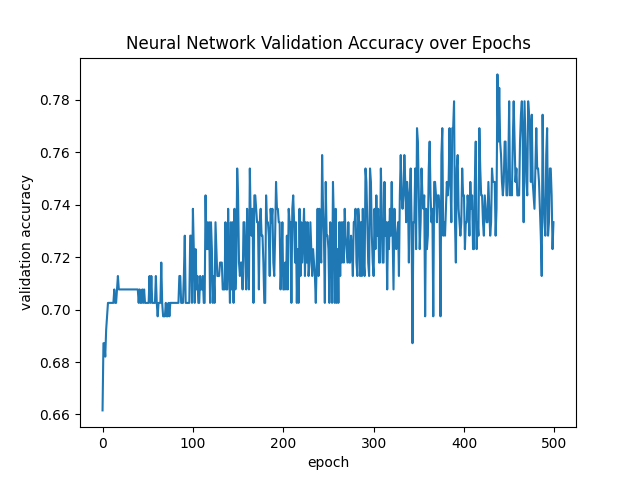
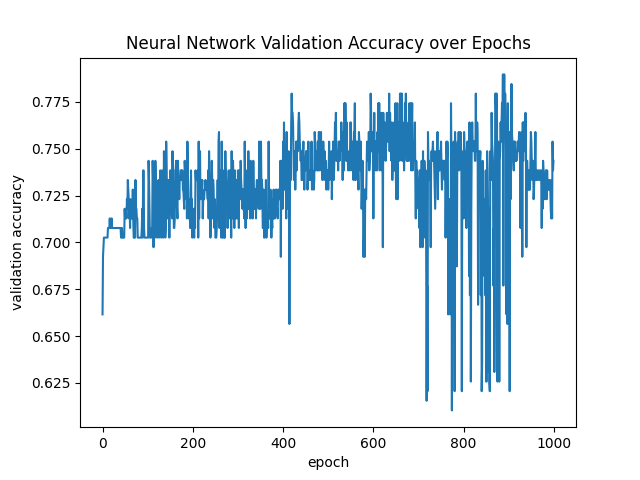
add hyper param tuning for logistic regression

diff --git a/neural_net.py b/neural_net.py
@@ -2,13 +2,13 @@ from platform import node
 from utils import *
 import numpy as np
 import matplotlib.pyplot as plt
+from sklearn.metrics import accuracy_score
 
 def sigmoid(z):
     return 1 / (1 + np.exp(-z))
 
 def relu(z):
-    z[z<0] = 0
-    return z
+    return np.maximum(0, z)
 
 # Derivative of ReLU function
 def step(z):
@@ -34,14 +34,11 @@ def forward_prop(X, weights):
     # X: M x Nx
     M = X.shape[0]
     z1 = np.dot(X, weights["W1"].T) + np.tile(weights["B1"].T, (M, 1))
+    # y1 = sigmoid(z1)
     y1 = relu(z1)
-    # print("z1 shape: ", z1.shape)
-    # print("y1 shape: ", y1.shape)
 
     z2 = np.dot(y1, weights["W2"].T) + np.tile(weights["B2"].T, (M, 1))
     y2 = sigmoid(z2)
-    # print("z2 shape: ", z2.shape)
-    # print("y2 shape: ", y2.shape)
 
     node_output = {
         "Z1" : z1,
@@ -61,14 +58,10 @@ def back_prop(W, X, t, node_output):
     y1 = node_output["Y1"]
     y2 = node_output["Y2"]
     w2 = W["W2"]
-    # print("y2 shape: ", y2.shape)
-    # print("t shape: ", t.shape)
 
     dz2 = y2 - t
     dw2 = 1/M * np.dot(dz2.T, y1)
     db2 = 1/M * np.sum(dz2)
-    # print("dz2 shape: ", dz2.shape)
-    # print("w2 shape: ", w2.shape)
 
     # dz1 = np.dot(dz2, w2) * (y1 * (1 - y1))
     dz1 = np.dot(dz2, w2) * step(z1)
@@ -88,11 +81,7 @@ def update_weights(W, grads, alpha):
     b1_new = W["B1"] - alpha * grads["db1"]
     w2_new = W["W2"] - alpha * grads["dw2"]
     b2_new = W["B2"] - alpha * grads["db2"]
-    # print("w1_new shape: ", w1_new.shape)
-    # print("b1_new shape: ", b1_new.shape)
-    # print("w2_new shape: ", w2_new.shape)
-    # print("b2_new shape: ", b2_new.shape)
-
+    
     weights_new = {
         "W1": w1_new,
         "B1": b1_new,
@@ -106,9 +95,13 @@ def predict(X, W):
     threshold = 0.5
     return node_output["Y2"] > threshold
 
-def train(X_train, t_train, X_val, t_val, nn_dims, alpha):
+def train(X_train, t_train, X_val, t_val, nn_dims, params):
     train_losses = []
     valid_accs = []
+
+    batch_size = params['batch_size']
+    epochs = params['epochs']
+    alpha = params['alpha']
 
     W = init_weights(nn_dims["n_x"], nn_dims["n_h"], nn_dims["n_y"])
 
@@ -117,7 +110,7 @@ def train(X_train, t_train, X_val, t_val, nn_dims, alpha):
     epoch_best = 0
 
     num_batches = int(np.ceil(len(X_train)/batch_size))  
-    for epoch in range(MaxEpoch):
+    for epoch in range(epochs):
 
         loss_this_epoch = 0
         for batch in range(num_batches):
@@ -125,22 +118,18 @@ def train(X_train, t_train, X_val, t_val, nn_dims, alpha):
             t_batch = t_train[batch*batch_size: (batch+1)*batch_size]
 
             node_output = forward_prop(X_batch, W)
-            # print("done forward prop")
 
             loss = get_cross_entropy_loss(node_output["Y2"], t_batch)
             loss_this_epoch += loss
 
             grads = back_prop(W, X_batch, t_batch, node_output)
-            # print("done back prop")
 
             W = update_weights(W, grads, alpha)
 
-        print("loss this epoch: ", loss)
 
         # Perform validation on the validation set by accuracy
         t_hat = predict(X_val, W)
-        acc = get_accuracy(t_val, t_hat)
-        print("epoch val acc: ", acc)
+        acc = accuracy_score(t_val, t_hat)
 
         # Append training loss and accuracy for the epoch
         train_losses.append(loss_this_epoch/num_batches)
@@ -153,33 +142,82 @@ def train(X_train, t_train, X_val, t_val, nn_dims, alpha):
     
     return epoch_best, acc_best,  w_best, train_losses, valid_accs
 
+def tune_params(X_train, t_train, X_val, t_val):
+    acc_best = 0
+    alpha_best = None
+    batch_size_best = None
+    n_h_best = None
+
+    alphas = [0.9, 0.1, 0.01, 0.001, 0.0001]
+    batch_sizes = [200, 100, 50, 10]
+    n_hs = [4, 8, 16, 32, 64]
+
+    num_iterations = 10
+    for alpha in alphas:
+        for batch_size in batch_sizes:
+            for n_h in n_hs:
+                summed_acc = 0
+                for i in range(num_iterations):
+                    nn_dims = {
+                        "n_x": X_train.shape[1],
+                        "n_h": n_h,
+                        "n_y": 1,
+                    }
+                    params = {
+                        'batch_size': batch_size,
+                        'epochs': num_iterations,
+                        'alpha': alpha,
+                    }
+                    _, acc, _, _, _ = train(X_train, t_train, X_val, t_val, nn_dims, params)
+                    summed_acc += acc
+
+                avg_acc = summed_acc/num_iterations
+                print(f'alpha: {alpha}, batch: {batch_size}, n_h: {n_h}, avg_acc: {avg_acc}')
+
+                if avg_acc > acc_best:
+                    acc_best = avg_acc
+                    alpha_best = alpha
+                    batch_size_best = batch_size
+                    n_h_best = n_h
+
+    tuned_params = {
+        'batch_size': batch_size_best,
+        'n_h': n_h_best,
+        'alpha': alpha_best,
+    }
+    return acc_best, tuned_params
 
 ##############################
 # Main code starts here
 
-# Single hidden layer with n_h nodes
-n_h = 32
-
-alpha = 0.1     # learning rate
-batch_size = 100    # batch size
-MaxEpoch = 500      # Maximum epoch - default 50
-decay = 0.          # weight decay
-
-# logistic regression classifier
 X_train, t_train, X_val, t_val, X_test, t_test = get_data()
+
+# Tune hyperparameters
+acc, params = tune_params(X_train, t_train, X_val, t_val)
+n_h = params['n_h']
+alpha = params['alpha']
+batch_size = params['batch_size'] 
+print(f'TUNED: alpha: {alpha}, batch: {batch_size}, n_h: {n_h}, acc: {acc}')
+
+# Train using tuned hyperparams and more Epochs
+MaxEpoch = 1000      # Maximum epoch
 
 nn_dims = {
     "n_x": X_train.shape[1],
     "n_h": n_h,
     "n_y": 1,
 }
-
-epoch_best, acc_best, w_best, train_losses, valid_accs = train(X_train, t_train, X_val, t_val, nn_dims, alpha)
+params = {
+    'batch_size': batch_size,
+    'epochs': MaxEpoch,
+    'alpha': alpha,
+}
+epoch_best, acc_best, w_best, train_losses, valid_accs = train(X_train, t_train, X_val, t_val, nn_dims, params)
 print("epoch best: ", epoch_best)
 print("acc best: ", acc_best)
 
 t_hat = predict(X_test, w_best)
-acc_test = get_accuracy(t_test, t_hat)
+acc_test = accuracy_score(t_test, t_hat)
 print("test acc: ", acc_test)
 
 plt.figure()

diff --git a/logistic_regression.py b/logistic_regression.py
@@ -3,18 +3,11 @@ from sklearn.metrics import log_loss
 from functools import reduce
 import numpy as np
 import matplotlib.pyplot as plt
-
-# def softmax(z):
-#     max = np.max(z,axis=1,keepdims=True)
-#     e_z = np.exp(z - max)
-#     sum = np.sum(e_z, axis=1, keepdims=True)
-#     return e_z/sum
+from sklearn.metrics import accuracy_score
+from scipy.special import expit
 
 def sigmoid(z):
-    # print("z: ", z)
-    return 1 / (1 + np.exp(-z))
-
-    # return np.array(list(map(lambda x: 1/(1+math.exp(-x)), z)))
+    return expit(z)
 
 def one_hot(t, k):
     c = np.concatenate(t)
@@ -33,16 +26,20 @@ def predict(X, w, t=None):
     t_hat = np.array(list(map(lambda x: 1 if x >= threshold else 0, y)))
 
     loss = get_cross_entropy_loss(y, t)
-    acc = get_accuracy(t, t_hat)
+    acc = accuracy_score(t, t_hat)
     return y, t_hat, loss, acc
 
 
-def train(X_train, t_train, X_val, t_val):
+def train(X_train, t_train, X_val, t_val, params):
     N_train = X_train.shape[0]
     N_val = X_val.shape[0]
 
     train_losses = []
     valid_accs = []
+
+    batch_size = params['batch_size']
+    epochs = params['epochs']
+    alpha = params['alpha']
 
     w = np.zeros(X_train.shape[1])
 
@@ -51,7 +48,7 @@ def train(X_train, t_train, X_val, t_val):
     epoch_best = 0
 
     num_batches = int(np.ceil(len(X_train)/batch_size))  
-    for epoch in range(MaxEpoch):
+    for epoch in range(epochs):
 
         loss_this_epoch = 0
         for batch in range(num_batches):
@@ -62,12 +59,11 @@ def train(X_train, t_train, X_val, t_val):
             y, t_hat, loss, acc = predict(X_batch, w, t_batch)
             loss_this_epoch += loss
 
-            grad = np.dot(X_batch.T, (y-t_batch))
+            grad = (1/batch_size) * np.dot(X_batch.T, (y-t_batch))
             w = w - alpha*grad
 
         # Perform validation on the validation set by accuracy
         _, _, _, acc = predict(X_val, w, t_val)
-        print("epoch acc: ", acc)
 
         # Append training loss and accuracy for the epoch
         train_losses.append(loss_this_epoch/num_batches)
@@ -81,39 +77,83 @@ def train(X_train, t_train, X_val, t_val):
     
     return epoch_best, acc_best,  w_best, train_losses, valid_accs
 
+def tune_params(X_train, t_train, X_val, t_val):
+    acc_best = 0
+    alpha_best = None
+    batch_size_best = None
+
+    alphas = [0.9, 0.1, 0.01, 0.001, 0.0001]
+    batch_sizes = [200, 100, 50, 10]
+
+    num_iterations = 20
+    for alpha in alphas:
+        for batch_size in batch_sizes:
+            summed_acc = 0
+            for i in range(num_iterations):
+                params = {
+                    'batch_size': batch_size,
+                    'epochs': num_iterations,
+                    'alpha': alpha,
+                }
+                _, acc, _, _, _ = train(X_train, t_train, X_val, t_val, params)
+                summed_acc += acc
+
+            avg_acc = summed_acc/num_iterations
+            print(f'alpha: {alpha}, batch: {batch_size}, avg_acc: {avg_acc}')
+
+            if avg_acc > acc_best:
+                acc_best = avg_acc
+                alpha_best = alpha
+                batch_size_best = batch_size
+
+    tuned_params = {
+        'batch_size': batch_size_best,
+        'alpha': alpha_best,
+    }
+    return acc_best, tuned_params
 
 ##############################
 # Main code starts here
-alpha = 0.1      # learning rate
-batch_size = 100    # batch size
-MaxEpoch = 1000      # Maximum epoch - default 50
-decay = 0.          # weight decay
+# alpha = 0.1      # learning rate
+# batch_size = 100    # batch size
+# MaxEpoch = 1000      # Maximum epoch - default 50
+# decay = 0.          # weight decay
 
 # logistic regression classifier
 X_train, t_train, X_val, t_val, X_test, t_test = get_data()
-print(X_train)
 
-epoch_best, acc_best, w_best, train_losses, valid_accs = train(X_train, t_train, X_val, t_val)
+# Tune hyperparameters
+acc, params = tune_params(X_train, t_train, X_val, t_val)
+alpha = params['alpha']
+batch_size = params['batch_size'] 
+print(f'TUNED: alpha: {alpha}, batch: {batch_size}, acc: {acc}')
+
+# Train using tuned hyperparams and more Epochs
+MaxEpoch = 1000      # Maximum epoch
+
+params = {
+    'batch_size': batch_size,
+    'epochs': MaxEpoch,
+    'alpha': alpha,
+}
+epoch_best, acc_best, w_best, train_losses, valid_accs = train(X_train, t_train, X_val, t_val, params)
 print("epoch best: ", epoch_best)
 print("acc best: ", acc_best)
 
 _, _, _, acc_test = predict(X_test, w_best, t_test)
 print("test acc: ", acc_test)
 
-# plot_data(X, t, w, b, is_logistic=True,
-#           figure_name='dataset_A_logistic.png')
-
 plt.figure()
-plt.title("Training Loss over Epochs")
+plt.title("Logistic Regression Training Loss over Epochs")
 plt.xlabel('epoch')
 plt.ylabel('training loss')
 plt.plot(train_losses)
-plt.savefig('training_loss' + '.png')
+plt.savefig('lr_training_loss' + '.png')
 
 plt.figure()
-plt.title("Validation Accuracy over Epochs")
+plt.title("Logisting Regression Validation Accuracy over Epochs")
 plt.xlabel('epoch')
 plt.ylabel('validation accuracy')
 plt.plot(valid_accs)
-plt.savefig('validation_accuracy' + '.png')
+plt.savefig('lr_validation_accuracy' + '.png')
 

diff --git a/baseline.py b/baseline.py
@@ -1,0 +1,15 @@
+from utils import *
+from sklearn.metrics import accuracy_score
+
+# Use Zero Rule baseline - i.e. predict not survived for each passenger
+def predict(X):
+    return np.zeros(len(X))
+
+##############################
+# Main code starts here
+
+_, _, _, _, X_test, t_test = get_data()
+
+t_hat = predict(X_test)
+acc = accuracy_score(t_test, t_hat)
+print("test acc: ", acc)

diff --git a/svm.py b/svm.py
@@ -31,5 +31,5 @@ classifier = SVC(C=C, kernel=kernel, gamma=gamma)
 classifier.fit(X_train, t_train)
 
 t_hat = classifier.predict(X_test)
-acc2 = accuracy_score(t_test, t_hat)
-print("test acc2: ", acc2)
+acc = accuracy_score(t_test, t_hat)
+print("test acc: ", acc)
